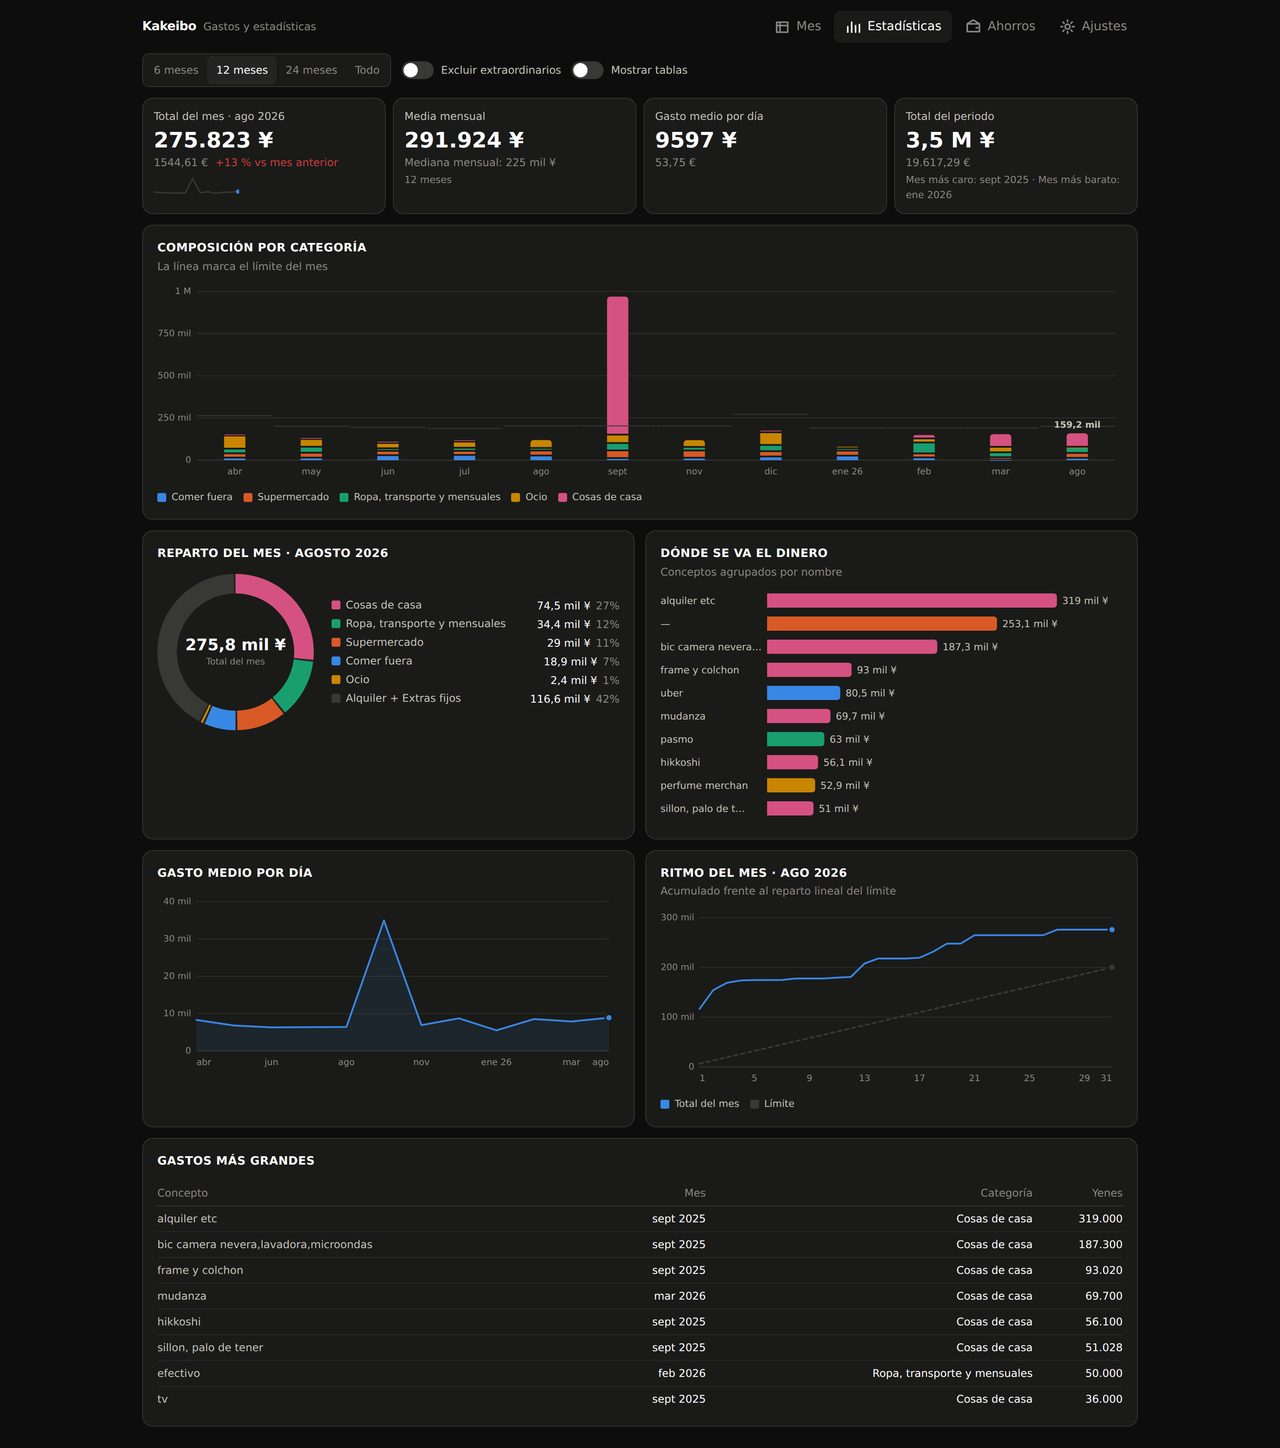
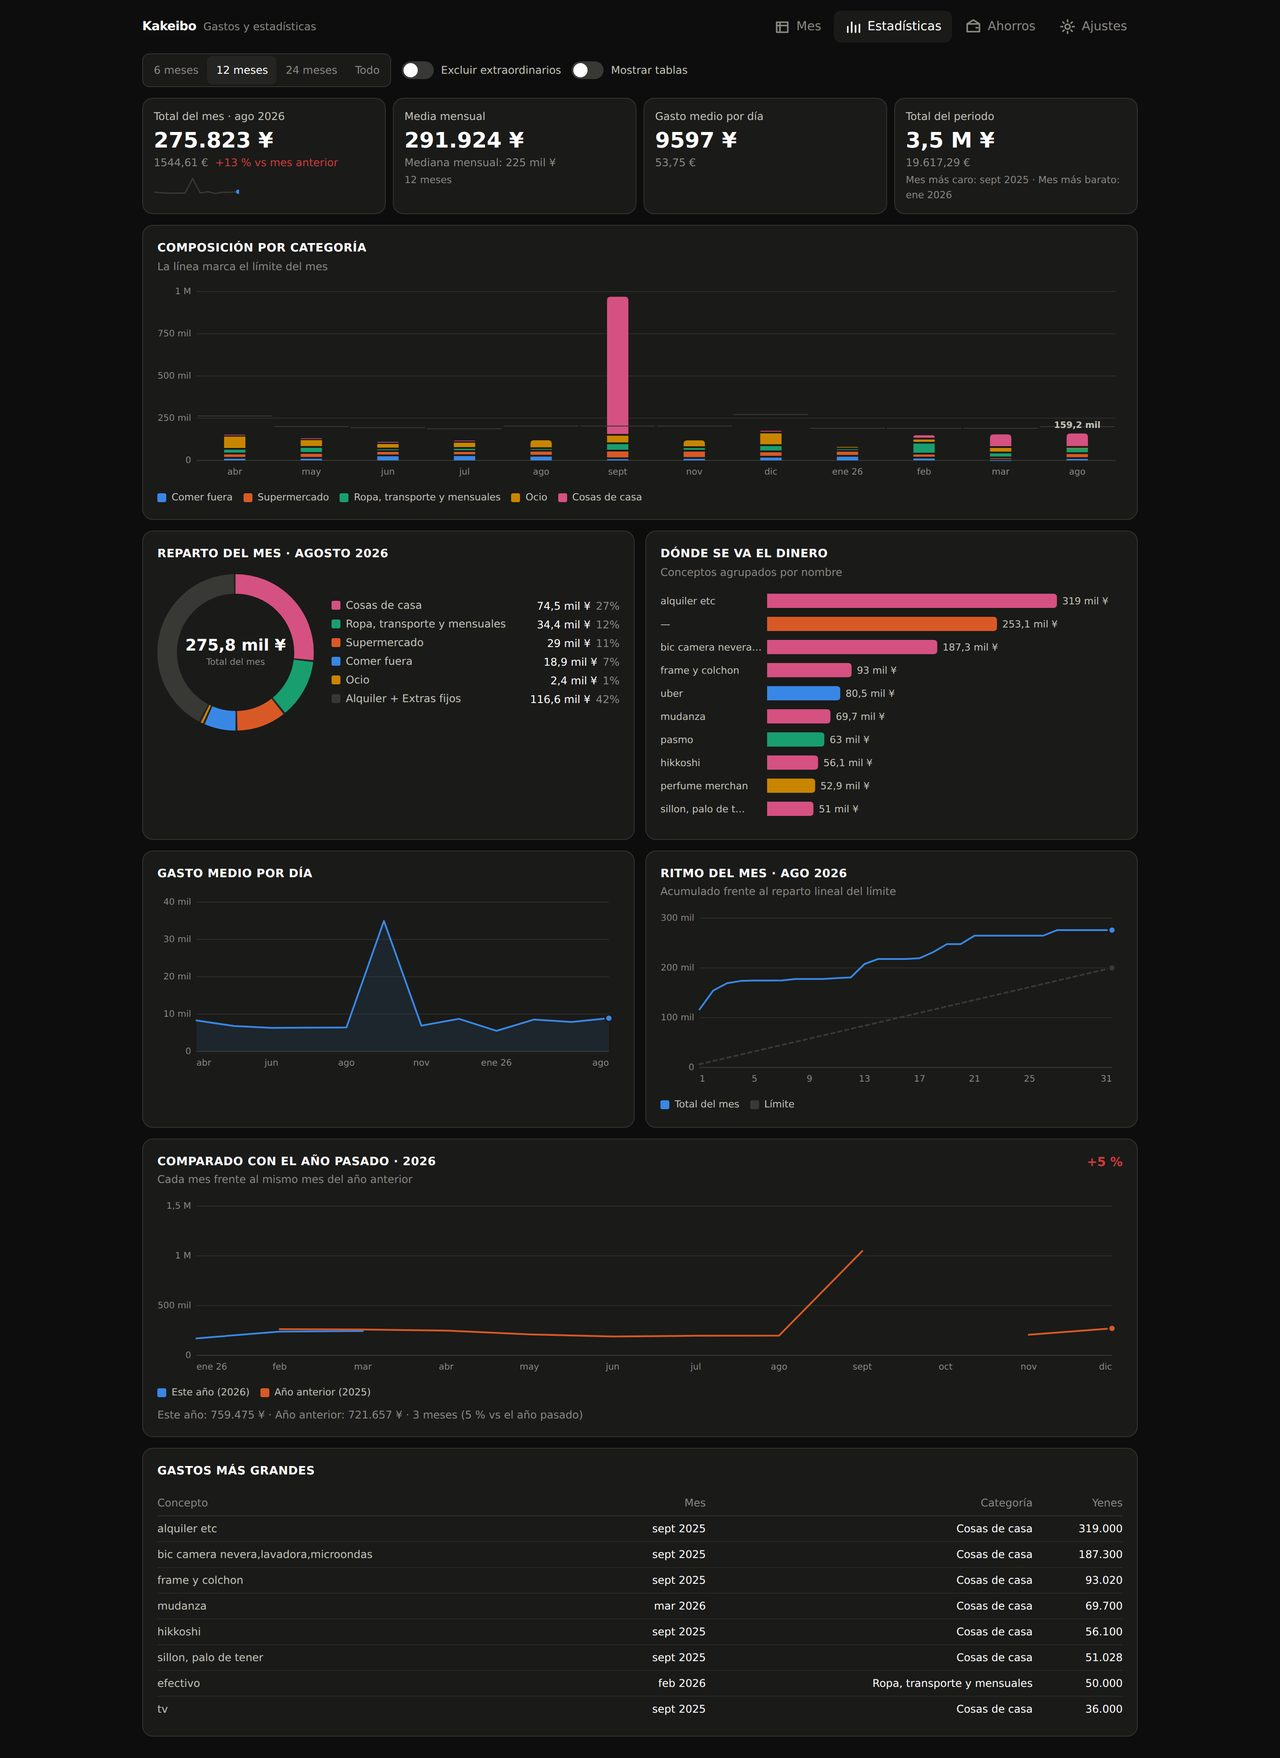
Tests de las funciones nuevas y documentacion
Claude-Session: https://claude.ai/code/session_018cq5rACq4RUwfUrLTfkayp

diff --git a/src/test/app.test.tsx b/src/test/app.test.tsx
@@ -109,6 +109,84 @@ describe('la aplicacion', () => {
     expect(screen.getByRole('dialog')).toBeInTheDocument()
   })
 
+  it('al abrir un mes nuevo copia los fijos del anterior', async () => {
+    const user = userEvent.setup()
+    const data = seed()
+    data.expenses.push({
+      id: 'e3',
+      monthId: '2026-08',
+      categoryId: 'fixed_transport',
+      label: 'netflix',
+      amount: 1590,
+      kind: 'recurring',
+    })
+    render(<App initial={data} />)
+    await user.click(screen.getByLabelText('Mes siguiente'))
+    // septiembre no existia: hereda alquiler y el gasto recurrente
+    expect(screen.getByRole('heading', { level: 1 }).textContent).toMatch(/septiembre|sept/i)
+    expect(screen.getByDisplayValue('netflix')).toBeInTheDocument()
+    expect(screen.getByDisplayValue('80000')).toBeInTheDocument()
+    // pero no arrastra los gastos normales
+    expect(screen.queryByDisplayValue('seiyu')).not.toBeInTheDocument()
+  })
+
+  it('con el ajuste desactivado el mes nuevo sale vacio', async () => {
+    const user = userEvent.setup()
+    const data = seed()
+    data.settings = { ...data.settings, autoFillFixed: false }
+    data.expenses.push({
+      id: 'e3',
+      monthId: '2026-08',
+      categoryId: 'fixed_transport',
+      label: 'netflix',
+      amount: 1590,
+      kind: 'recurring',
+    })
+    render(<App initial={data} />)
+    await user.click(screen.getByLabelText('Mes siguiente'))
+    expect(screen.queryByDisplayValue('netflix')).not.toBeInTheDocument()
+  })
+
+  it('muestra el tope de una categoria', () => {
+    const data = seed()
+    data.categories = data.categories.map((c) =>
+      c.id === 'groceries' ? { ...c, limitJpy: 30000 } : c,
+    )
+    render(<App initial={data} />)
+    // 4000 gastados de 30000: quedan 26000
+    expect(screen.getByText(/26[.,\s]?000/)).toBeInTheDocument()
+    expect(screen.getByLabelText(/Tope mensual: Supermercado/)).toBeInTheDocument()
+  })
+
+  it('la comparacion anual aparece en estadisticas', async () => {
+    const user = userEvent.setup()
+    const data = seed()
+    data.months = [
+      ...data.months,
+      { id: '2025-08', rentJpy: 80000, extras: [], fxRate: 0.0056, limitJpy: 200000 },
+    ]
+    data.expenses.push({
+      id: 'e-2025-08',
+      monthId: '2025-08',
+      categoryId: 'eating_out',
+      label: 'uber',
+      amount: 10000,
+      kind: 'normal',
+    })
+    render(<App initial={data} />)
+    await user.click(screen.getAllByRole('button', { name: /Estadísticas/ })[0])
+    expect(screen.getByText(/Comparado con el año pasado/)).toBeInTheDocument()
+  })
+
+  it('sincronizacion: sin configurar pide los datos del proyecto', async () => {
+    const user = userEvent.setup()
+    render(<App initial={seed()} />)
+    await user.click(screen.getAllByRole('button', { name: /Ajustes/ })[0])
+    expect(screen.getByText('Sincronización')).toBeInTheDocument()
+    expect(screen.getByLabelText('URL del proyecto')).toBeInTheDocument()
+    expect(screen.getByRole('button', { name: /Guardar configuración/ })).toBeDisabled()
+  })
+
   it('cambia el idioma desde ajustes', async () => {
     const user = userEvent.setup()
     render(<App initial={seed()} />)

diff --git a/README.md b/README.md
@@ -14,6 +14,11 @@ siempre en GitHub Pages.
 - **Importador del Excel original**: lee las hojas con las cabeceras japonesas
   (外食, スーパーマーケット, 服装と電車と毎月費消, 娯楽, 部屋のもの) y las
   convierte en meses de la aplicación.
+- **Topes por categoría** además del límite del mes, con su aviso al pasarse.
+- **Fijos automáticos**: al abrir un mes nuevo hereda alquiler, extras y gastos
+  recurrentes del anterior.
+- **Tipo de cambio** al día desde el Banco Central Europeo, o a mano.
+- **Sincronización opcional** entre móvil y PC con Supabase (plan gratuito).
 - Funciona **sin conexión** (PWA instalable) y se ve bien en móvil y en PC.
 - Interfaz en español, japonés e inglés.
 
@@ -76,16 +81,59 @@ la raíz.
 
 ## Dónde se guardan los datos
 
-En el `localStorage` del navegador, bajo la clave `kakeibo:data:v1`. Esto tiene
-consecuencias que conviene tener claras:
+Primero, siempre, en el navegador del dispositivo (`localStorage`, clave
+`kakeibo:data:v1`), con guardado automático 250 ms después de dejar de escribir
+y otro al cerrar la pestaña o cambiar de app. No hay botón de guardar.
 
-- Los datos **no salen del dispositivo** y nadie más los ve.
-- **No se sincronizan** entre el móvil y el PC.
-- Si borras los datos del navegador, se van.
+Eso hace que la app funcione sin cobertura, pero también que cada dispositivo
+tenga su copia. Hay dos formas de juntarlas:
 
-Por eso hay **Ajustes → Exportar datos**, que descarga un `.json` con todo, e
-**Importar datos** para restaurarlo en otro dispositivo. Un `.json` exportado es
-también la copia de seguridad recomendada.
+- **A mano**: Ajustes → *Exportar datos* descarga un `.json` con todo, e
+  *Importar datos* lo restaura en el otro dispositivo. Es también la copia de
+  seguridad recomendada.
+- **Automática**: la sincronización con Supabase que se describe abajo.
+
+## Sincronizar el móvil y el PC (Supabase, plan gratuito)
+
+1. Crea un proyecto en [supabase.com](https://supabase.com) (plan Free).
+2. En **SQL Editor**, pega y ejecuta [`supabase/schema.sql`](supabase/schema.sql).
+   Crea la tabla `kakeibo_docs` con RLS: cada usuario solo puede leer y escribir
+   su propia fila.
+3. En **Project Settings → API**, copia la *Project URL* y la clave *anon*.
+4. En **Authentication → URL Configuration**, añade la dirección de la app
+   (`https://USUARIO.github.io/kakeibo/`) a *Site URL* y a *Redirect URLs*, o el
+   enlace del correo no sabrá volver.
+5. En la app: **Ajustes → Sincronización**, pega URL y clave, escribe tu correo
+   y pulsa *Enviarme el acceso*. Llega un correo con un enlace; al pulsarlo
+   vuelves a la app ya con la sesión abierta. Repite en el otro dispositivo.
+
+Si prefieres el código de seis dígitos en lugar del enlace (más cómodo en el
+móvil), añade `{{ .Token }}` a la plantilla *Magic Link* en
+**Authentication → Email Templates**; la app tiene el campo para pegarlo.
+
+También puedes dejar URL y clave fijas en el build con `VITE_SUPABASE_URL` y
+`VITE_SUPABASE_ANON_KEY` (ver [`.env.example`](.env.example)); en un repositorio
+público quedarían a la vista, y por eso por defecto se escriben en Ajustes y se
+guardan solo en el dispositivo.
+
+### Cómo se fusionan los cambios
+
+Cada dispositivo sube el documento completo y, al bajar, se fusiona con el
+local (`src/lib/sync.ts`):
+
+- un apunte que solo está en un lado se queda;
+- un apunte que está en los dos: gana la versión editada más tarde;
+- lo que borras deja una marca con la fecha, así que no resucita al
+  sincronizar — salvo que se haya editado *después* de borrarlo, caso en el que
+  gana la edición, que es lo menos destructivo.
+
+La sincronización ocurre al abrir la app, al volver a ella, al recuperar la
+conexión y unos segundos después de cada cambio. Si falla, no pasa nada: los
+datos están en local y se reintenta a la siguiente.
+
+La clave *anon* es pública por diseño; lo que protege los datos es la política
+RLS del paso 2. Sin esa política, cualquiera con la clave podría leer la tabla:
+no te la salte.
 
 ## Cómo se calculan las cosas
 
@@ -99,6 +147,8 @@ Réplica de las fórmulas del Excel:
 | Otros gastos (別の費消) | total − gastos fijos |
 | Balance (上限) | límite − total |
 | Moneda secundaria | importe × tipo de cambio del mes |
+| Tope de categoría | suma de la categoría frente a su tope, si tiene |
+| Comparación anual | cada mes frente al mismo mes del año anterior, solo con los meses que existen en los dos años |
 
 Cada apunte tiene un tipo: **normal**, **recurrente** (cuenta como gasto fijo, y
 se puede copiar al mes siguiente) o **extraordinario** (puntual: la mudanza, un
@@ -109,13 +159,19 @@ ver la tendencia real.
 
 ```
 src/
-  lib/          calculos, formato, almacenamiento, lector de xlsx (sin React)
+  lib/          calculos, formato, almacenamiento, lector de xlsx,
+                fusion de copias y cliente de Supabase (sin React)
   components/   piezas de interfaz y graficos en SVG
-  state/        store con useReducer + guardado diferido
+  state/        store con useReducer + guardado diferido + motor de sync
   views/        Mes · Estadisticas · Ahorros · Ajustes
   test/         tests de interfaz y fixture del importador
 public/         manifest, iconos y service worker
+supabase/       schema.sql para la sincronizacion
 ```
+
+El cliente de Supabase está escrito con `fetch` (unas 300 líneas en
+`src/lib/supabase.ts`) en vez de usar la librería oficial: hacen falta cuatro
+llamadas y así el paquete que descarga el móvil no engorda 100 kB.
 
 Los gráficos son SVG escritos a mano (sin librería de charts) siguiendo una
 paleta validada para daltonismo: orden de colores fijo, leyenda siempre
